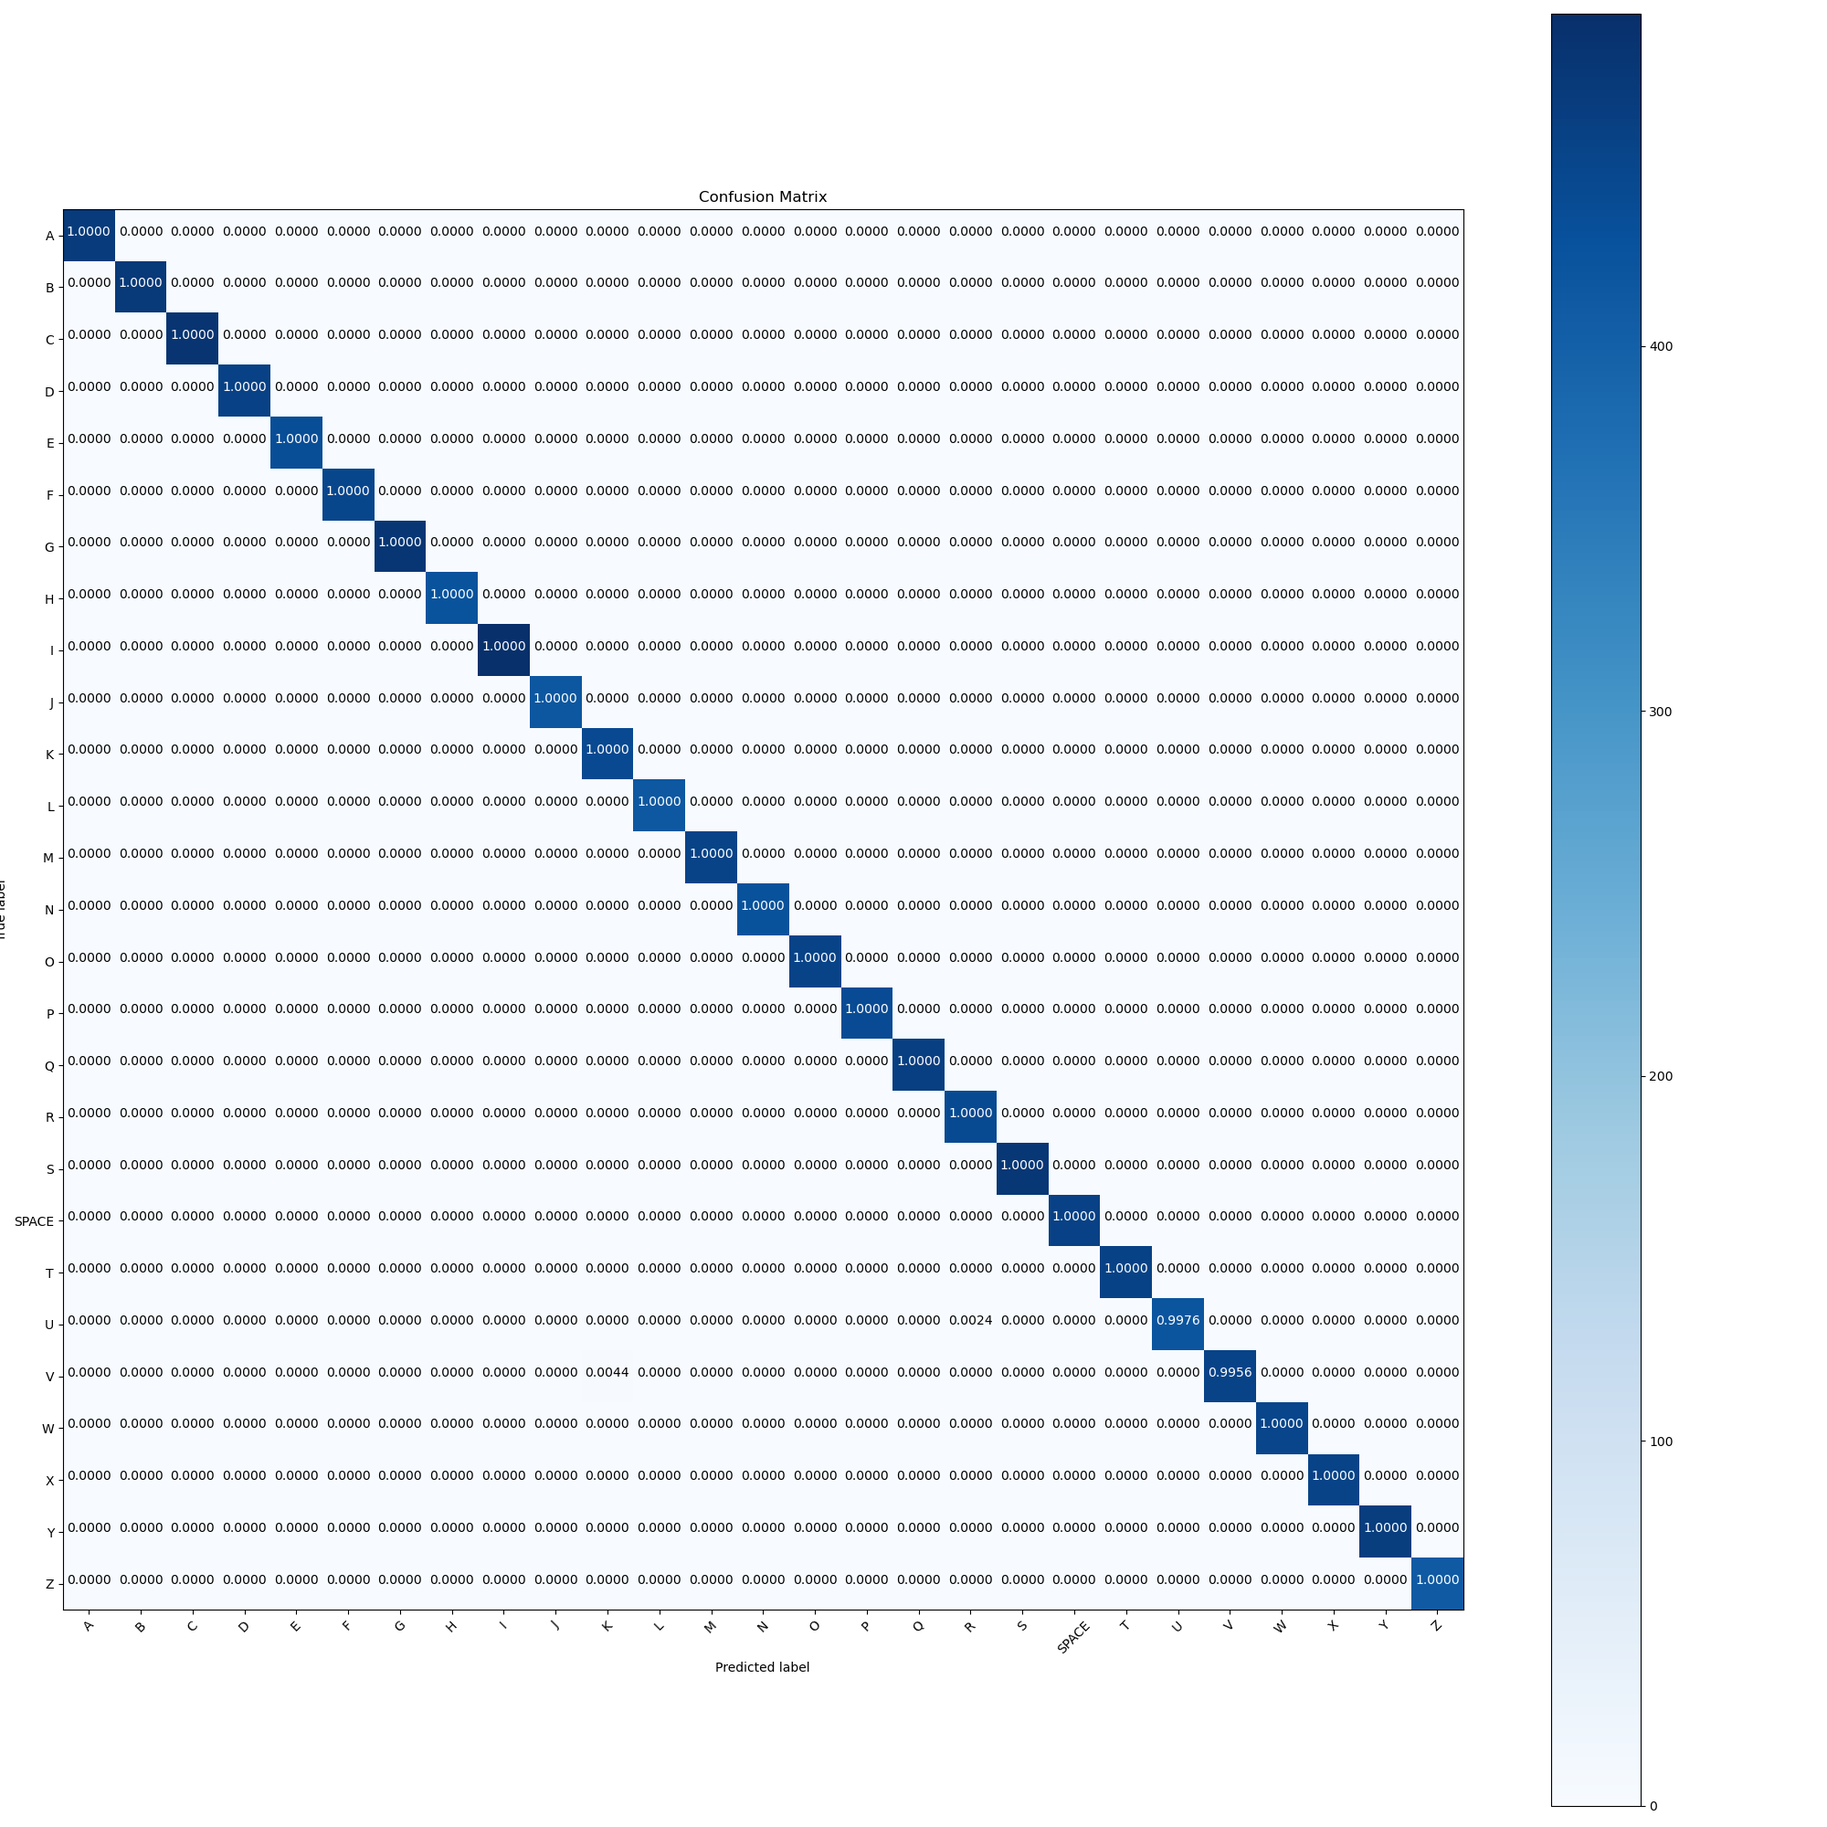
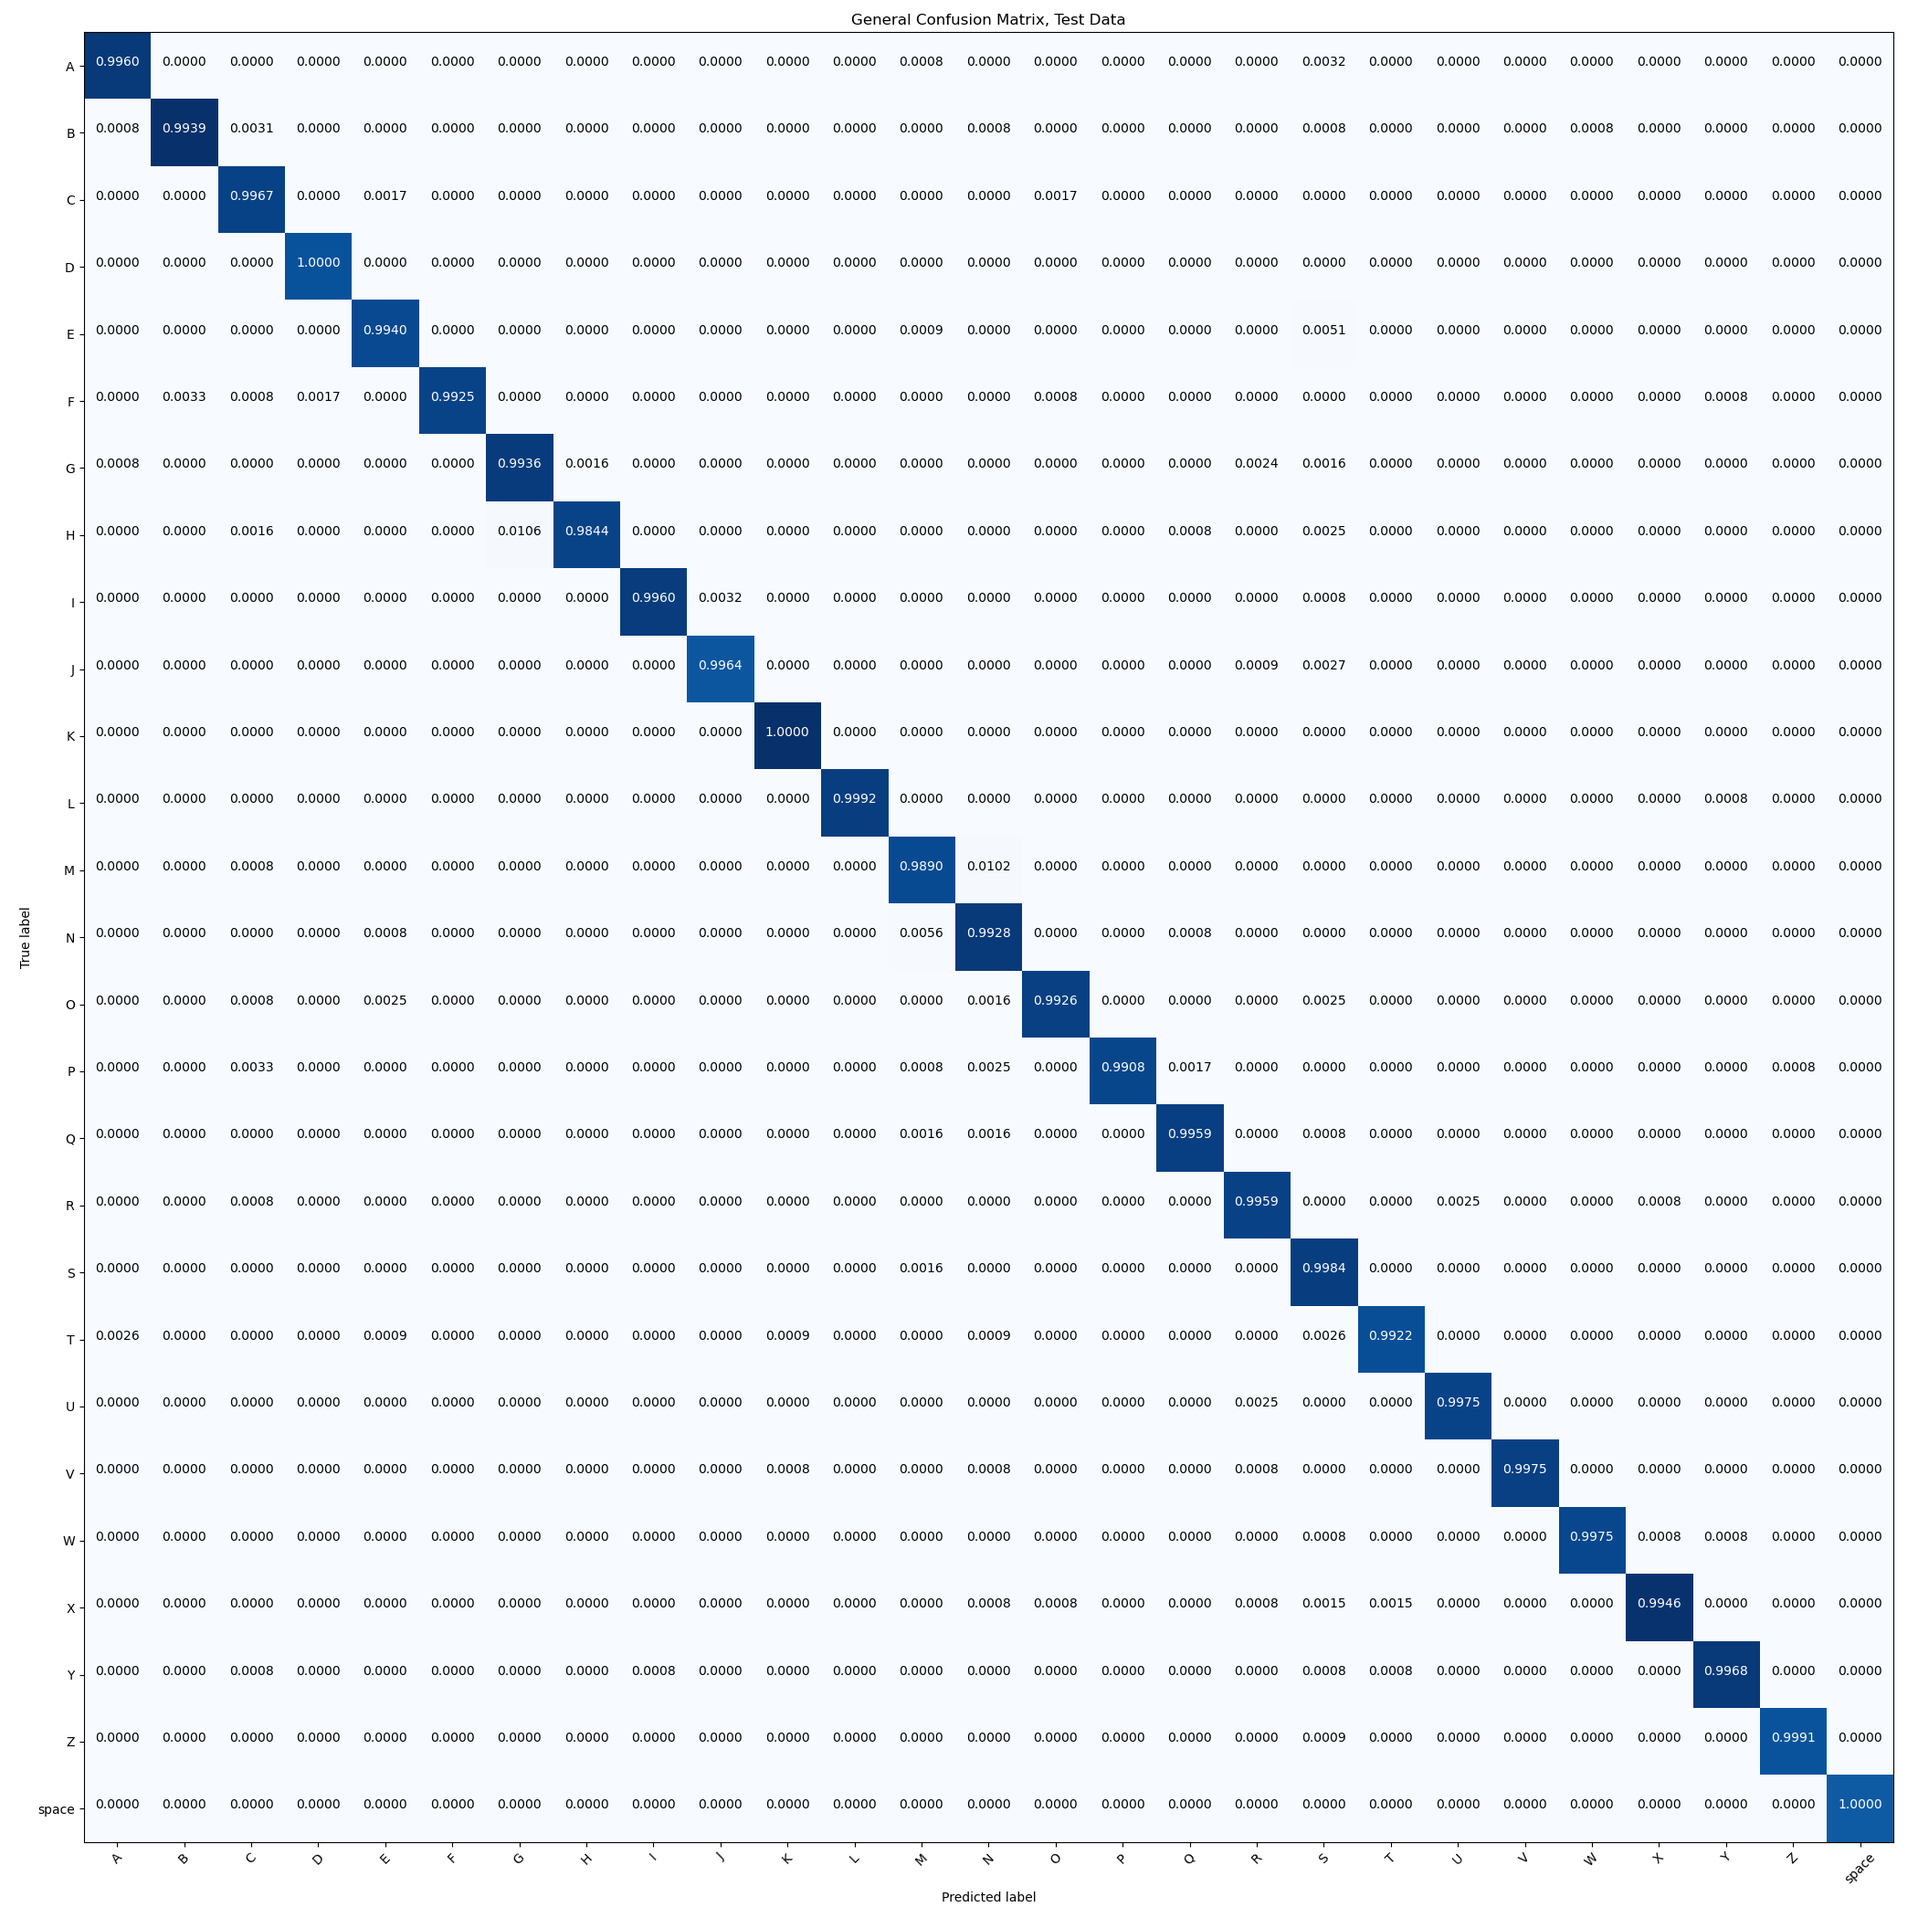
Some more plots and confusion matrix for challenging letters

diff --git a/train.py b/train.py
@@ -51,10 +51,15 @@ def train_model(m, c, o, train_l, val_l, epochs=10):
     return losses, v_losses
 
 
-def plot_results(m, loader, val=True):
+def plot_results(m, loader, title):
     m.eval()
     all_preds = []
     all_labels = []
+    hard_labels_list = ['A', 'E', 'I', 'J', 'N', 'M', 'S', 'T']
+    hard_preds = []
+    hard_labels = []
+    label_to_idx = {label: idx for idx, label in enumerate(loader.dataset.dataset.classes)}
+    hard_label_indices = {label_to_idx[label] for label in hard_labels_list if label in label_to_idx}
     with torch.no_grad():
         correct = 0
         total = 0
@@ -66,18 +71,30 @@ def plot_results(m, loader, val=True):
             correct += (pred == labels).sum().item()
             all_preds.extend(pred.view(-1).cpu().numpy())
             all_labels.extend(labels.view(-1).cpu().numpy())
+
+            for p, l in zip(pred.view(-1).cpu().numpy(), labels.view(-1).cpu().numpy()):
+                if l in hard_label_indices:
+                    if p in hard_label_indices:
+                        hard_labels.append(l)
+                        hard_preds.append(p)
+
         acc = 100 * correct / total
         print(f'Accuracy: {acc}')
-    # Confusion Matrix
-    cm = confusion_matrix(all_labels, all_preds)
-    plt.figure(figsize=(21, 21))
+    plot_cm(all_labels, all_preds, loader.dataset.dataset.classes, 'General', title)
+    plot_cm(hard_labels, hard_preds, hard_labels_list, 'Hard', title, hard=True)
+
+
+def plot_cm(true, pred, classes, title, m_title, hard=False):
+    cm = confusion_matrix(true, pred)
+    if not hard:
+        plt.figure(figsize=(21, 21))
+    else:
+        plt.figure(figsize=(7, 7))
     plt.imshow(cm, interpolation='nearest', cmap=plt.cm.Blues)
-    title = 'Validation Data' if val else 'Test Data'
-    plt.title(f'Confusion Matrix, {title}')
-    plt.colorbar()
-    tick_marks = np.arange(len(loader.dataset.dataset.classes))
-    plt.xticks(tick_marks, loader.dataset.dataset.classes, rotation=45)
-    plt.yticks(tick_marks, loader.dataset.dataset.classes)
+    plt.title(f'{title} Confusion Matrix, {m_title} Data')
+    tick_marks = np.arange(len(classes))
+    plt.xticks(tick_marks, classes, rotation=45)
+    plt.yticks(tick_marks, classes)
 
     # Normalize the confusion matrix
     cm = cm.astype('float') / cm.sum(axis=1)[:, np.newaxis]
@@ -87,13 +104,10 @@ def plot_results(m, loader, val=True):
         plt.text(j, i, "{:0.4f}".format(cm[i, j]),
                  horizontalalignment="center",
                  color="white" if cm[i, j] > thresh else "black")
-
     plt.ylabel('True label')
     plt.xlabel('Predicted label')
     plt.tight_layout()
-    plt.subplots_adjust(left=0.19)
     plt.show()
-
 
 def plot_loss(t_losses, v_losses):
     plt.figure(figsize=(10,6))
@@ -142,12 +156,12 @@ def main(train_p=False, results=False):
     if results:
         model.load_state_dict(torch.load('data/asl_classifier_state_dict.pth'))
         model.eval()
-        # plot_results(model, train_loader)
-        plot_results(model, val_loader)
-        plot_results(model, test_loader, val=False)
+        plot_results(model, train_loader, 'Train')
+        # plot_results(model, val_loader, 'Validation')
+        plot_results(model, test_loader, 'Test')
 
 
 if __name__ == '__main__':
     # main()
-    main(train_p=True, results=True)
-    # main(results=True)
+    # main(train_p=True, results=True)
+    main(results=True)
